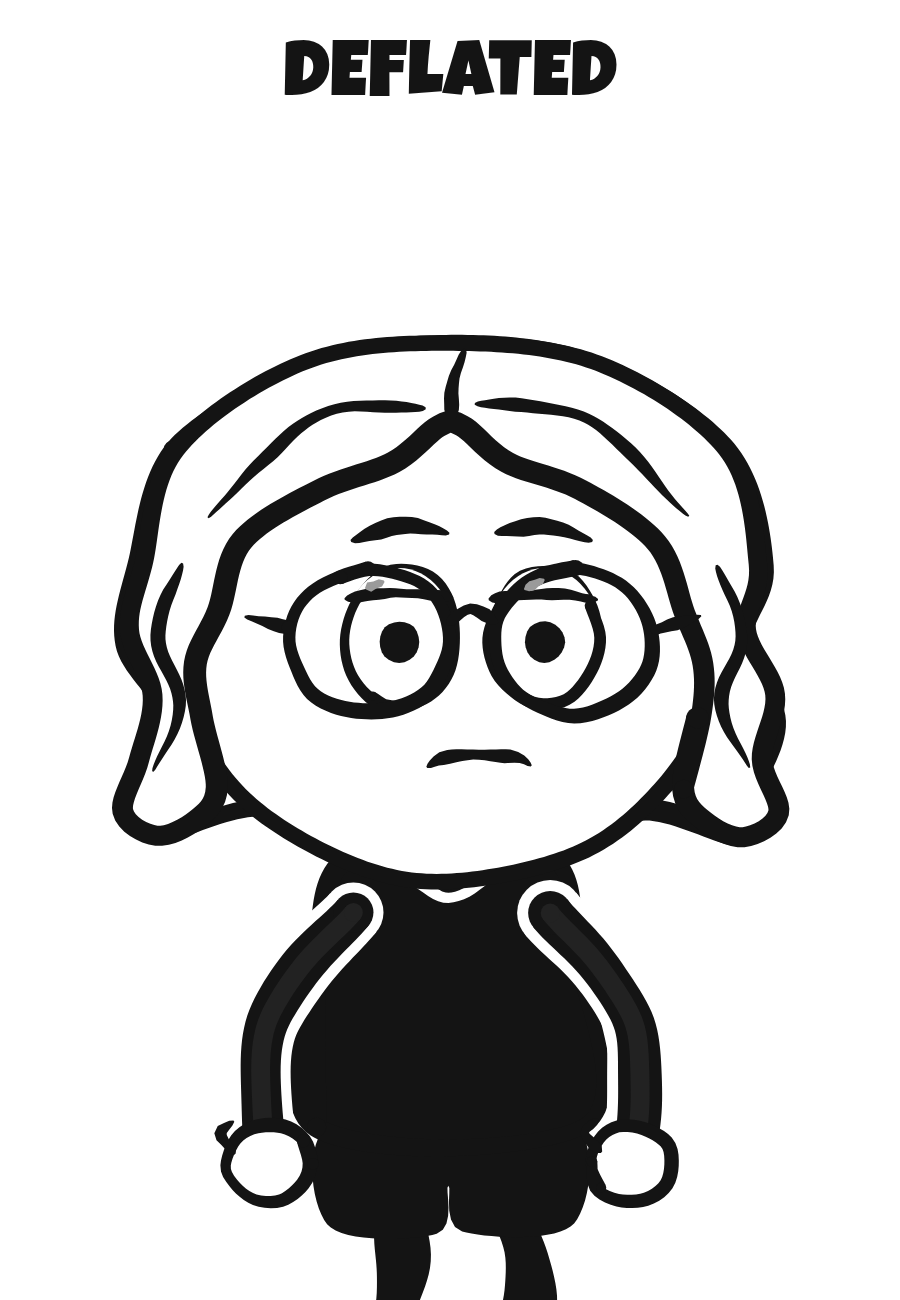
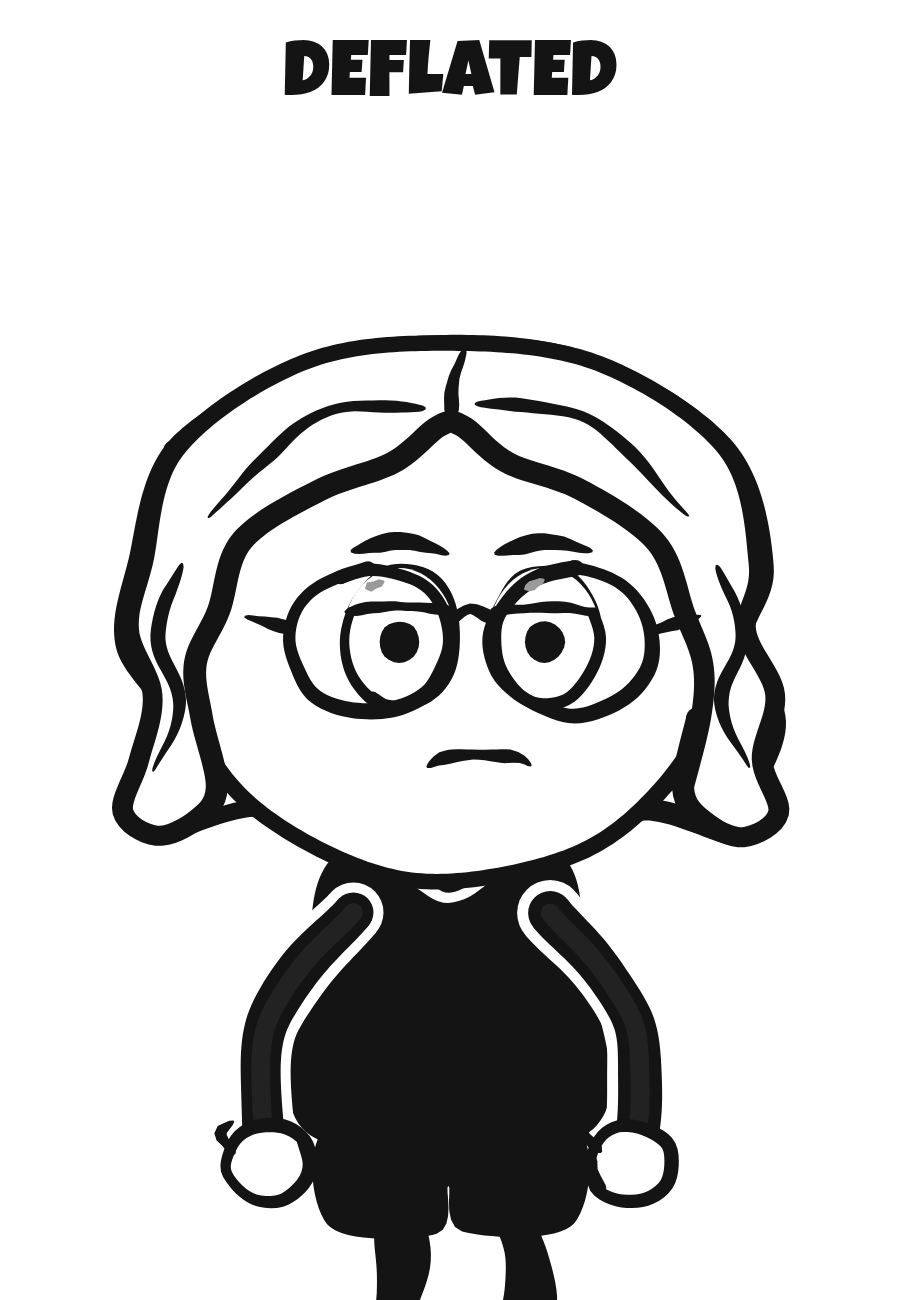
Haircut: eyeline cut into the whole mirror with the push carried through, steady hair swell, firmer chair turn, deflated lids lower
Claude-Session: https://claude.ai/code/session_01EegAb7cyviQxGjmyZ5UDFA

Changed region(s): [[0.3733, 0.4, 0.4978, 0.4923], [0.5289, 0.4, 0.6533, 0.4923]]

diff --git a/web/skits/haircut.js b/web/skits/haircut.js
@@ -7,7 +7,7 @@ Skits.haircut = (() => {
   const { seg, lerp, easeOut, easeInOut, easeOutBack, clamp } = Stage;
   const { build, head, hh, RX, RY } = Cameos.parts;
   const W = '#fff', RED = '#d9261c';
-  const CUT_MIRROR = 4.15, CUT_AFTER = 7.5, END = 11.0;
+  const CUT_MIRROR = 4.0, CUT_AFTER = 7.5, END = 11.0;
 
   // ---------- captions: the meme's three panels, word for word ----------
   // [start, end, text]. The meme's own line breaks are kept; extra breaks are
@@ -150,14 +150,15 @@ Skits.haircut = (() => {
   const sweptHair = ctx => hairShapes(ctx, SWEPT, AUBURN, SWEPT_LINES, AUBURN_LINE);
   // The swell in the mirror, k 0..1: the half-cut mop sinks back to the scalp
   // while the swept shape grows out of it. Every part scales about a point on
-  // the scalp; the colour turns over halfway, in one frame (no fades).
+  // the scalp; the colour turns over early (15% grown), in one frame (no fades),
+  // so what you watch growing is the auburn hair.
   const SCALP = [0.05, -0.82];
   const toward = (pts, f) => pts.map(([x, y]) => [SCALP[0] + (x - SCALP[0]) * f, SCALP[1] + (y - SCALP[1]) * f]);
   const swellHair = k => ctx => {
-    const out = clamp(1 - k * 2), grow = Math.max(0, k);
+    const out = clamp(1 - k / 0.15), grow = Math.max(0, k);
     const mop = out > 0 ? [MOP_CAP, ...LOCKS.filter((_, i) => i >= cutCount).flatMap(l => l.shapes)].map(p => toward(p, 0.75 + 0.25 * out)) : [];
     const swept = SWEPT.map((p, i) => i === 0 ? p : toward(p, grow));
-    if (k < 0.5) hairShapes(ctx, [...mop, ...swept], GREY, [], GREY_LINE);
+    if (k < 0.15) hairShapes(ctx, [...mop, ...swept], GREY, [], GREY_LINE);
     else hairShapes(ctx, swept, AUBURN, k > 0.85 ? SWEPT_LINES : [], AUBURN_LINE);
   };
 
@@ -412,20 +413,20 @@ Skits.haircut = (() => {
 
   // ---------- shot 1: in the chair, getting snipped; the barber tilts the chair,
   // he glances at the mirror, and we push in on him (0 - 4.5) ----------
-  const TILT_AT = 3.08, GLANCE = [3.44, 3.71], PUSH = [3.74, CUT_MIRROR];   // the glance is 8 frames
+  const TILT_AT = 3.14, GLANCE = [3.47, 3.74], PUSH = [3.72, CUT_MIRROR];   // the glance is 8 frames
   const PIVOT = [GX, 1800];                       // the chair turns about its base
-  const CHAIR_CORNER = [GX + 220, 1330];          // where the barber takes hold of the chair back (its edge, below his head)
+  const CHAIR_CORNER = [GX + 222, 1262];          // where the barber takes hold: the chair back's top corner, clear of his head
   const chairTilt = t => t < TILT_AT ? 0
-    : t < 3.2 ? 0.045 * easeOut(seg(t, TILT_AT, 3.2))
-    : t < 3.36 ? lerp(0.045, -0.008, easeInOut(seg(t, 3.2, 3.36)))
-    : lerp(-0.008, 0, easeInOut(seg(t, 3.36, 3.46)));
+    : t < 3.26 ? 0.1 * easeOut(seg(t, TILT_AT, 3.26))             // a firm turn, about 6 degrees
+    : t < 3.4 ? lerp(0.1, -0.015, easeInOut(seg(t, 3.26, 3.4)))
+    : lerp(-0.015, 0, easeInOut(seg(t, 3.4, 3.5)));
   const rotAbout = ([x, y], [cx, cy], a) => [cx + (x - cx) * Math.cos(a) - (y - cy) * Math.sin(a), cy + (x - cx) * Math.sin(a) + (y - cy) * Math.cos(a)];
   // the camera: scale S with his head centre at screen point A
   const wideCam = z => ({ S: WIDE * z, A: [470 + z * (540 + WIDE * (GX - 540) - 470), 1300 + z * (1920 + WIDE * (GY - 1920) - 1300)] });
-  const PUSH_TO = { S: 1.3, A: [540, 1320] };     // matches the mirror shot's first frame
+  const PUSH_TO = { S: 1.22, A: [520, 1340] };    // a push in on his look, still speeding up at the cut
   function shotChair(ctx, t) {
     const z = lerp(1.0, 1.05, easeInOut(seg(t, 0, 4.1)));   // the slow drift of the first draft, kept
-    const p = easeInOut(seg(t, PUSH[0], PUSH[1]));
+    const p = seg(t, PUSH[0], PUSH[1]) ** 2;   // eases in and cuts on the move
     const c0 = wideCam(z), S = lerp(c0.S, PUSH_TO.S, p), A = Stage.mix(c0.A, PUSH_TO.A, p);
     ctx.save(); ctx.translate(A[0], A[1]); ctx.scale(S, S); ctx.translate(-GX, -GY);
     wall(ctx); floor(ctx);
@@ -455,8 +456,8 @@ Skits.haircut = (() => {
     let rot = done ? a.rot : lerp(a.rot, b.rot, move);
     let front = done ? a.front : (move < 0.5 ? a.front : b.front);
     const lean = LEAN - 0.012 * Math.sin(t * 0.9);
-    if (done) {   // to the chair back (2.95-3.08), then it moves with the chair
-      const k = easeInOut(seg(t, 2.95, TILT_AT));
+    if (done) {   // to the chair back (2.9-3.14, 8 frames, overshooting into the grab), then it moves with the chair
+      const k = easeOutBack(seg(t, 2.9, TILT_AT));
       hand = Stage.mix(a.hand, rotAbout(CHAIR_CORNER, PIVOT, tilt), k);
       rot = lerp(a.rot, 2.7, k); front = k > 0.5 || a.front;   // scissors closed, pointing down and away
     }
@@ -473,17 +474,20 @@ Skits.haircut = (() => {
     return { top: Math.min(...tops) };
   }
 
-  // ---------- shot 2: the mirror (4.15 - 7.5) ----------
+  // ---------- shot 2: the mirror (4.0 - 7.5) ----------
   // The reflection is shot 1's view, flipped, at the scale the push-in ended on.
   // His hair swells into the styled shape, the sparkles pop one by one as it
   // settles, the brow cocks, and the smirk lands last. Then hold, 2.5 s.
-  const SWELL = [4.25, 4.62];                       // 11 frames
-  const SPARKS = [4.5, 4.64, 4.78];                 // one at a time as it settles
-  const COCK = [4.62, 4.82], SMIRK = 4.95;
+  const MIRROR_IN = 4.42;
+  const SWELL = [4.36, 4.73];                       // 11 frames
+  const SPARKS = [4.66, 4.8, 4.94];                 // one at a time as it settles
+  const COCK = [4.8, 5.0], SMIRK = 5.12;
   const MIRROR = [80, 170, 1000, 2100];   // frame: x0, top, x1, bottom (arched top)
   function shotMirror(ctx, t) {
-    const k = easeInOut(seg(t, CUT_MIRROR, CUT_AFTER));
-    const z = lerp(1.0, 1.1, k);   // the push-in carries on, slower
+    // opens on the whole mirror on the wall and carries the push on into the
+    // glass (fast at first, as the wide shot's push was at the cut), then drifts
+    const z = t < MIRROR_IN ? lerp(0.62, 1.0, easeOut(seg(t, CUT_MIRROR, MIRROR_IN)))
+                            : lerp(1.0, 1.07, easeInOut(seg(t, MIRROR_IN, CUT_AFTER)));
     const FX = 540, FY = 1320;   // his face stays here on screen as we push in
     ctx.save(); zoom(ctx, FX, FY, z);
     ctx.fillStyle = '#e8e8e8'; ctx.fillRect(-400, -400, 1900, 2800);   // the shop wall the mirror hangs on
@@ -500,7 +504,8 @@ Skits.haircut = (() => {
     wall(ctx); floor(ctx);
     chairBack(ctx);
     cutCount = SNIPS.length;
-    const eob = easeOutBack(seg(t, SWELL[0], SWELL[1])), swell = eob <= 1 ? eob : 1 + (eob - 1) * 0.45;   // swells a touch past, then settles
+    // grows steadily over the first 8 frames to a touch past full size, then settles
+    const sg = seg(t, SWELL[0], SWELL[1]), swell = sg < 0.75 ? 1.05 * easeInOut(sg / 0.75) : lerp(1.05, 1, easeInOut((sg - 0.75) / 0.25));
     hairNow = t >= SWELL[1] ? sweptHair : swellHair(swell); jawNow = clamp(swell);
     const cock = easeOutBack(seg(t, COCK[0], COCK[1]));
     const sm = Emotions.smolder, g = { ...dead, lookY: -0.05, pupil: 12, lid: 0.46 };   // he arrives with the glance face
@@ -512,20 +517,19 @@ Skits.haircut = (() => {
     ctx.restore();
     cape(ctx, () => falling(ctx, CUT_MIRROR, LOCKS.length));
     chairFront(ctx);
-    // the barber in the glass: his arm in from the edge, hand on the chair back
-    // where he left it, scissors closed
-    const mh = CHAIR_CORNER, from = [BX - 20, 1320];
-    Chars.tube(ctx, from, mh, -0.12, 24 * BS, W, false);
-    scissors(2.7 + LEAN, 0)(ctx, mh[0], mh[1]);
-    Chars.hand(ctx, mh[0], mh[1], null, BS);
+    // the barber in the glass, as he was: hand on the chair back, scissors closed
+    barber(ctx, { x: BX, y: BFEET, s: BS, lean: LEAN, weight: -0.6, ...fussy,
+      ...barberArm(-1, bLocal(CHAIR_CORNER, LEAN), 'down', true), holdL: scissors(2.7, 0),
+      ...barberArm(1, [96, -196], 'out', false), holdR: comb });
     ctx.restore();
     // glass sheen: hard white streaks in the upper right corner of the glass
     stroke(ctx, [[x1 - 90, 900], [x1 - 20, 790]], { w: 20, color: W, taper0: 0.3, taper1: 0.3 });
     stroke(ctx, [[x1 - 60, 980], [x1 - 10, 900]], { w: 9, color: W, taper0: 0.3, taper1: 0.3 });
     ctx.restore();
     outline(ctx, framePts, { w: 12 });   // the frame's inner edge over the glass
-    // sparkles on the hair: hard-edged four-point stars, popping in one at a time
-    const sp = [[FX - 110, FY - 410, SPARKS[0], 40], [FX + 100, FY - 450, SPARKS[1], 28], [FX + 210, FY - 320, SPARKS[2], 22]];
+    // sparkles: hard-edged four-point stars, popping in one at a time
+    // just outside the hair, on the wall behind it
+    const sp = [[FX - 255, FY - 330, SPARKS[0], 44], [FX - 40, FY - 435, SPARKS[1], 38], [FX + 200, FY - 400, SPARKS[2], 40]];
     for (const [sx, sy, at, r] of sp) {
       const k2 = easeOutBack(seg(t, at, at + 0.15));
       if (k2 <= 0) continue;

diff --git a/web/emotions.js b/web/emotions.js
@@ -52,7 +52,7 @@ const Emotions = (() => {
                  ...arm(1, [26, -306], 'down', true), ...arm(-1, [-2, -210], 'down', true) },   // hand on chin, other arm across holding the elbow
     unimpressed: { mouth: 'flat', lid: 0.5, flatLid: true, pupil: 8, lookX: -0.9 },   // vacant: flat lids, side-eye
     sleepy:    { lid: 1, mouth: 'o', open: 0.1, tilt: 0.1, brow: -0.3 },
-    deflated:  { mouth: 'flatdown', lid: 0.3, pupil: 11, brow: -0.35, lookY: 0.1 },   // "oh. it's over": lids up a little, brows sagging, mouth flat with the corners down
+    deflated:  { mouth: 'flatdown', lid: 0.46, pupil: 11, brow: -0.1, browLiftL: 8, browLiftR: 8, lookY: 0.1 },   // "oh. it's over": lids a touch higher than bored, brows low and flat, mouth flat with the corners down
     smolder:   { mouth: 'smirk', lid: 0.4, lowLid: 0.32, pupil: 14, browL: 0.45, browR: -0.5, browLiftR: -18, tilt: -0.07 },   // too cool: eyes narrowed to a squint, one brow cocked, closed half smile
   };
   return E;

diff --git a/references/haircut/notes.md b/references/haircut/notes.md
@@ -21,21 +21,25 @@ Beats:
             hand-timed (0.42, 0.74, 1.06, 1.30, 1.66, 1.88, 2.30, 2.52, 2.86),
             each takes a clump off screen right and the top; clumps fall onto the cape.
             Caption: "Me before getting my haircut"
-- 3.00–4.15 Half done and tousled. Caption: "Me that one random moment during
-            my haircut". 2.95–3.08 the barber's hand goes to the chair back;
-            3.08–3.46 he turns the chair a little toward the mirror and it
-            settles. 3.44–3.71 (8 frames) he glances at the mirror: eyes dart
-            first, the head turns after them. 3.74–4.15 push in on his face,
-            ending at the mirror shot's framing.
-- 4.15–7.50 The mirror (arched frame, flipped reflection): at first the same
-            half-cut grey mop. 4.25–4.62 (11 frames) the hair swells into a
-            modest auburn swoop (same silhouette family, flat fill, one inner
-            stroke), the jaw squaring as it goes (two strokes). Sparkles pop one
-            at a time at 4.50, 4.64, 4.78. 4.62–4.82 lids narrow and the brow
-            cocks (`Emotions.smolder`); the smirk lands last, at 4.95. Hold the
-            smug face 4.95–7.5 (2.55 s), slow push-in.
-- 7.50–11.0 Smash cut. Neat grey box. Deflated (`Emotions.deflated`): lids up
-            a little from "before", brows sagging, mouth flat with the corners
+- 3.00–4.00 Half done and tousled. Caption: "Me that one random moment during
+            my haircut". 2.90–3.14 the barber's hand goes to the chair back's
+            top corner (8 frames, overshooting into the grab); 3.14–3.50 he
+            turns the chair about 6 degrees toward the mirror and it settles.
+            3.47–3.74 (8 frames) he glances at the mirror: eyes dart first, the
+            head turns after them. 3.72–4.00 push in on him, speeding up, and
+            cut on the move.
+- 4.00–7.50 The mirror on the wall, whole arch in view (flipped reflection,
+            barber at its edge), the push carrying on into the glass until
+            4.42, then a slow drift. At first the same half-cut grey mop.
+            4.36–4.73 (11 frames) the hair grows steadily into a modest auburn
+            swoop (colour turns at 15% grown; flat fill, one inner stroke),
+            a touch past full size and settling; the jaw squares as it goes (two
+            strokes). Sparkles pop one at a time, just outside the hair, at
+            4.66, 4.80, 4.94. 4.80–5.00 lids narrow and the brow cocks
+            (`Emotions.smolder`); the smirk lands last, at 5.12. Hold the smug
+            face 5.12–7.5 (2.4 s).
+- 7.50–11.0 Smash cut. Neat grey box. Deflated (`Emotions.deflated`): lids a
+            touch higher than "before", brows low and flat, mouth flat with the corners
             down. Barber swaps scissors for a hand mirror (7.9) and holds it up
             behind his head (8.05–8.55), pleased; as it comes up his head and
             shoulders sink (8.25–8.58, 10 frames). Hold 9.0–11.0: he looks up at
